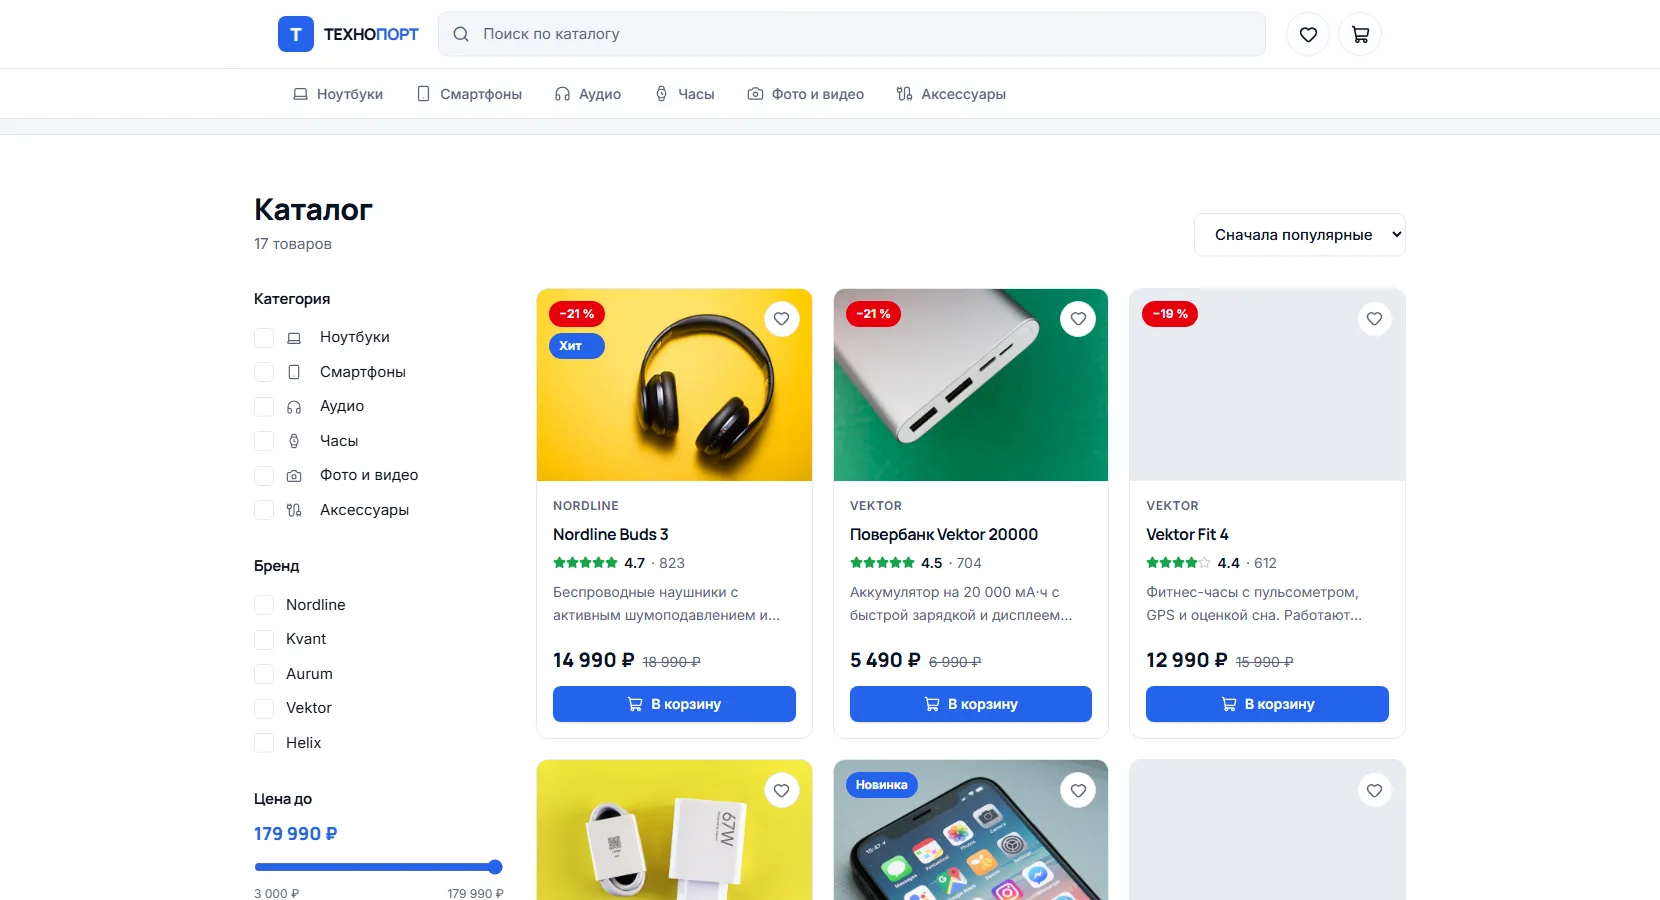
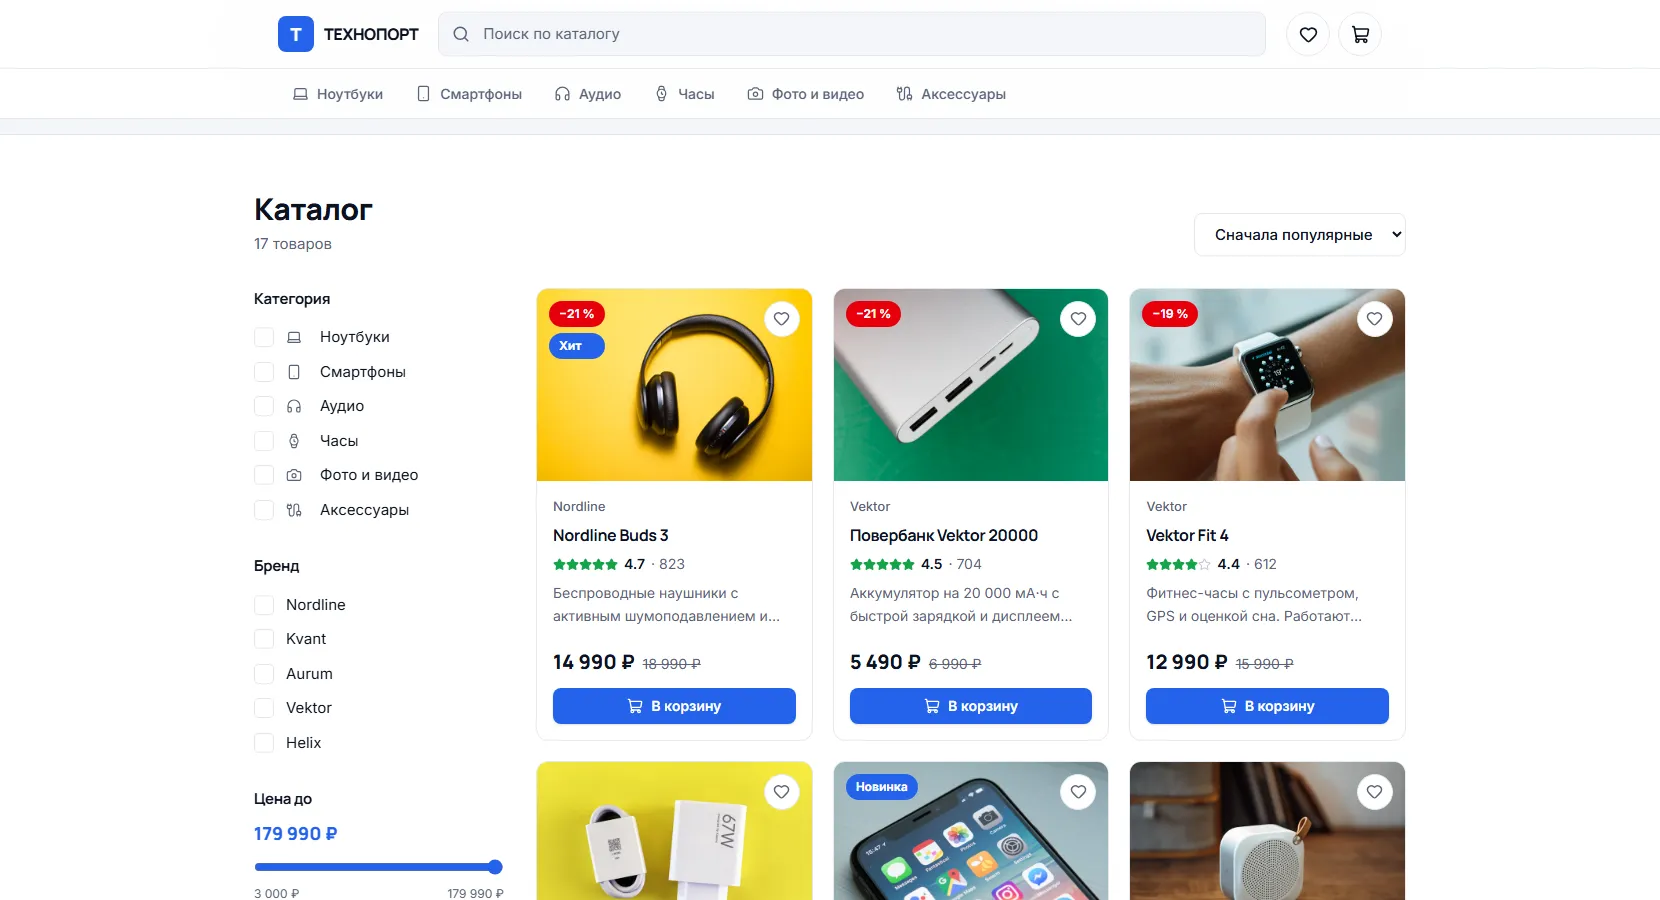
feat: магазин без шаблонных деталей, привычный вид сохранён
Магазин техники и должен выглядеть как магазин, поэтому только чистка:
- первый экран — спокойная светлая панель вместо синего градиента с точками,
  ноутбук крупно и теперь виден и на телефоне, кнопки без стрелки;
- плашка скидки обычным регистром, логотип одним цветом;
- марка в карточке товара без капса с разрядкой;
- плитки категорий не подпрыгивают, у преимуществ нет цветных квадратов;
- на телефоне подсказка в поиске короткая: длинная обрезалась до «Поиск пс».

diff --git a/src/templates/shop/ShopSections.tsx b/src/templates/shop/ShopSections.tsx
@@ -1,6 +1,7 @@
-import { ArrowRight, BadgeCheck, CreditCard, RotateCcw, Truck } from 'lucide-react'
+import { BadgeCheck, CreditCard, RotateCcw, Truck } from 'lucide-react'
 import { formatPrice } from '../../lib/format'
 import { photoUrl } from '../../lib/photos'
+import { Badge } from '../../ui/Bits'
 import { buttonStyles } from '../../ui/Button'
 import { CategoryIcon } from '../../ui/CategoryIcon'
 import { SHOP_CATALOG, SHOP_CATEGORIES } from './data'
@@ -15,83 +16,45 @@ export function ShopHero({ onOpenFeatured }: { onOpenFeatured: () => void }) {
   return (
     <section id="top" className="px-4 pt-6 sm:px-6 sm:pt-8">
       <div className="mx-auto w-full max-w-6xl">
-        <div
-          className="relative overflow-hidden rounded-card px-6 py-10 sm:px-12 sm:py-14"
-          style={{
-            background: 'linear-gradient(120deg, #1e3a8a 0%, #2563eb 55%, #38bdf8 100%)',
-          }}
-        >
-          <div
-            aria-hidden="true"
-            className="absolute inset-0 opacity-[0.13]"
-            style={{
-              backgroundImage: 'radial-gradient(#fff 1px, transparent 1px)',
-              backgroundSize: '18px 18px',
-            }}
+        {/* Спокойный фон без градиента: в магазине техники главное — сам товар и цена */}
+        <div className="grid items-center gap-6 overflow-hidden rounded-card bg-surface-2 p-5 sm:p-10 lg:grid-cols-[1fr_1.1fr] lg:gap-12 lg:p-12">
+          <img
+            src={photoUrl(FEATURED.id)}
+            alt="Ноутбук на деревянном столе"
+            fetchPriority="high"
+            decoding="async"
+            className="aspect-[4/3] w-full rounded-control object-cover lg:order-last"
           />
-          <div
-            aria-hidden="true"
-            className="absolute -right-16 -top-16 h-72 w-72 rounded-full bg-white/15 blur-2xl"
-          />
-
-          <div className="relative grid items-center gap-8 lg:grid-cols-[1.2fr_1fr]">
-            <div className="text-white">
-              {discount > 0 && (
-                <span className="inline-flex items-center rounded-full bg-white/20 px-4 py-1.5 text-[13px] font-extrabold uppercase tracking-wider backdrop-blur">
-                  скидка {discount} %
+          <div>
+            {discount > 0 && <Badge tone="sale">−{discount}&nbsp;%</Badge>}
+            <h1 className="mt-4 font-head text-[2.1rem] font-extrabold leading-[1.1] text-ink sm:text-5xl">
+              {FEATURED.name}
+            </h1>
+            <p className="mt-4 max-w-lg text-[16px] leading-relaxed text-ink-soft">
+              {FEATURED.description}
+            </p>
+            <div className="mt-6 flex items-baseline gap-3">
+              <span className="font-head text-3xl font-extrabold text-ink">
+                {formatPrice(FEATURED.price)}
+              </span>
+              {FEATURED.oldPrice && (
+                <span className="text-lg text-ink-soft line-through">
+                  {formatPrice(FEATURED.oldPrice)}
                 </span>
               )}
-              <h1 className="mt-5 font-head text-[2.1rem] font-extrabold leading-[1.1] tracking-tight sm:text-5xl">
-                {FEATURED.name}
-              </h1>
-              <p className="mt-4 max-w-lg text-[16px] leading-relaxed text-white/85">
-                {FEATURED.description}
-              </p>
-              <div className="mt-6 flex items-baseline gap-3">
-                <span className="font-head text-3xl font-extrabold">
-                  {formatPrice(FEATURED.price)}
-                </span>
-                {FEATURED.oldPrice && (
-                  <span className="text-lg text-white/60 line-through">
-                    {formatPrice(FEATURED.oldPrice)}
-                  </span>
-                )}
-              </div>
-              <div className="mt-7 flex flex-col gap-3 sm:flex-row">
-                <button
-                  type="button"
-                  onClick={onOpenFeatured}
-                  className={buttonStyles(
-                    'secondary',
-                    'lg',
-                    'w-full bg-white text-[#1e3a8a] hover:bg-white/90 sm:w-auto',
-                  )}
-                >
-                  Смотреть товар
-                  <ArrowRight size={18} />
-                </button>
-                <a
-                  href="#catalog"
-                  className={buttonStyles(
-                    'outline',
-                    'lg',
-                    'w-full border-white/50 text-white hover:bg-white/15 sm:w-auto',
-                  )}
-                >
-                  Весь каталог
-                </a>
-              </div>
             </div>
-
-            <div className="hidden justify-self-center lg:block">
-              <img
-                src={photoUrl(FEATURED.id)}
-                alt={FEATURED.name}
-                width={352}
-                height={262}
-                decoding="async"
-                className="h-[262px] w-[352px] rounded-3xl object-cover shadow-pop ring-4 ring-white/25"
-              />
+            <div className="mt-7 flex flex-col gap-3 sm:flex-row">
+              <button
+                type="button"
+                onClick={onOpenFeatured}
+                className={buttonStyles('primary', 'lg', 'w-full sm:w-auto')}
+              >
+                Смотреть товар
+              </button>
+              {/* Залитая, а не контурная: тонкая рамка на светлой панели почти не видна */}
+              <a href="#catalog" className={buttonStyles('secondary', 'lg', 'w-full sm:w-auto')}>
+                Весь каталог
+              </a>
             </div>
           </div>
         </div>
@@ -102,7 +65,7 @@ export function ShopHero({ onOpenFeatured }: { onOpenFeatured: () => void }) {
             <a
               key={cat.id}
               href="#catalog"
-              className="flex flex-col items-center gap-2 rounded-card border border-line bg-surface p-4 text-center transition hover:-translate-y-0.5 hover:border-brand hover:shadow-card"
+              className="flex flex-col items-center gap-2 rounded-card border border-line bg-surface p-4 text-center transition hover:border-brand"
             >
               <CategoryIcon icon={cat.icon} size={26} className="text-brand" />
               <span className="text-[13px] font-semibold leading-tight text-ink">{cat.name}</span>
@@ -129,9 +92,7 @@ export function ShopBenefits() {
       <div className="mx-auto grid w-full max-w-6xl gap-5 sm:grid-cols-2 lg:grid-cols-4">
         {BENEFITS.map(({ icon: Icon, title, text }) => (
           <div key={title} className="flex gap-3.5">
-            <span className="grid h-11 w-11 shrink-0 place-items-center rounded-control bg-brand-soft text-brand">
-              <Icon size={20} />
-            </span>
+            <Icon size={22} aria-hidden="true" className="mt-0.5 shrink-0 text-brand" />
             <span>
               <span className="block font-head text-[15px] font-bold text-ink">{title}</span>
               <span className="mt-1 block text-[13px] leading-relaxed text-ink-soft">{text}</span>
@@ -169,9 +130,7 @@ export function ShopFooter() {
             <span className="grid h-9 w-9 place-items-center rounded-control bg-brand font-head text-lg font-extrabold text-on-brand">
               Т
             </span>
-            <span className="font-head text-[16px] font-extrabold tracking-tight text-ink">
-              ТЕХНО<span className="text-brand">ПОРТ</span>
-            </span>
+            <span className="font-head text-[16px] font-extrabold tracking-tight text-ink">ТЕХНОПОРТ</span>
           </span>
           <p className="mt-4 text-[14px] leading-relaxed text-ink-soft">
             Интернет-магазин техники. Работаем с 2018 года, три пункта выдачи в Москве.

diff --git a/src/templates/shop/ShopHeader.tsx b/src/templates/shop/ShopHeader.tsx
@@ -1,7 +1,7 @@
 import { useState } from 'react'
 import { Heart, Menu as MenuIcon, Search, ShoppingCart, X } from 'lucide-react'
 import { cn } from '../../lib/cn'
-import { usePulse } from '../../lib/hooks'
+import { useMediaQuery, usePulse } from '../../lib/hooks'
 import { useCart } from '../../store/cart'
 import { useFavorites } from '../../store/favorites'
 import { IconButton } from '../../ui/Bits'
@@ -27,6 +27,8 @@ export function ShopHeader({
   const { count: favCount } = useFavorites()
   const pulsing = usePulse(count)
   const [menuOpen, setMenuOpen] = useState(false)
+  // На телефоне поле узкое: длинная подсказка обрезалась до «Поиск пс»
+  const wide = useMediaQuery('(min-width: 640px)')
 
   return (
     <header className="sticky top-0 z-50 border-b border-line bg-surface/95 backdrop-blur-xl">
@@ -36,7 +38,7 @@ export function ShopHeader({
             Т
           </span>
           <span className="hidden font-head text-[16px] font-extrabold tracking-tight text-ink sm:block">
-            ТЕХНО<span className="text-brand">ПОРТ</span>
+            ТЕХНОПОРТ
           </span>
         </a>
 
@@ -48,9 +50,13 @@ export function ShopHeader({
           <input
             value={query}
             onChange={(e) => onQuery(e.target.value)}
-            placeholder="Поиск по каталогу"
+            placeholder={wide ? 'Поиск по каталогу' : 'Поиск'}
             aria-label="Поиск по каталогу"
-            className="w-full rounded-control border border-line bg-surface-2 py-2.5 pl-11 pr-10 text-[15px] text-ink outline-none transition placeholder:text-ink-soft focus:border-brand focus:bg-surface"
+            className={cn(
+              'w-full rounded-control border border-line bg-surface-2 py-2.5 pl-11 text-[15px] text-ink outline-none transition placeholder:text-ink-soft focus:border-brand focus:bg-surface',
+              // Место справа нужно только кнопке очистки
+              query ? 'pr-10' : 'pr-3',
+            )}
           />
           {query && (
             <button

diff --git a/src/templates/shop/ShopProduct.tsx b/src/templates/shop/ShopProduct.tsx
@@ -82,7 +82,7 @@ export function ShopCard({ product, onOpen }: { product: Product; onOpen: () => 
 
       <div className="flex flex-1 flex-col gap-2 p-4">
         {product.brand && (
-          <span className="text-[12px] font-semibold uppercase tracking-wider text-ink-soft">
+          <span className="text-[13px] font-medium text-ink-soft">
             {product.brand}
           </span>
         )}
@@ -174,7 +174,7 @@ export function ShopProductModal({
           <div className="flex flex-col gap-5 p-6 sm:p-8">
             <div>
               {product.brand && (
-                <span className="text-[12px] font-semibold uppercase tracking-wider text-ink-soft">
+                <span className="text-[13px] font-medium text-ink-soft">
                   {product.brand}
                 </span>
               )}
